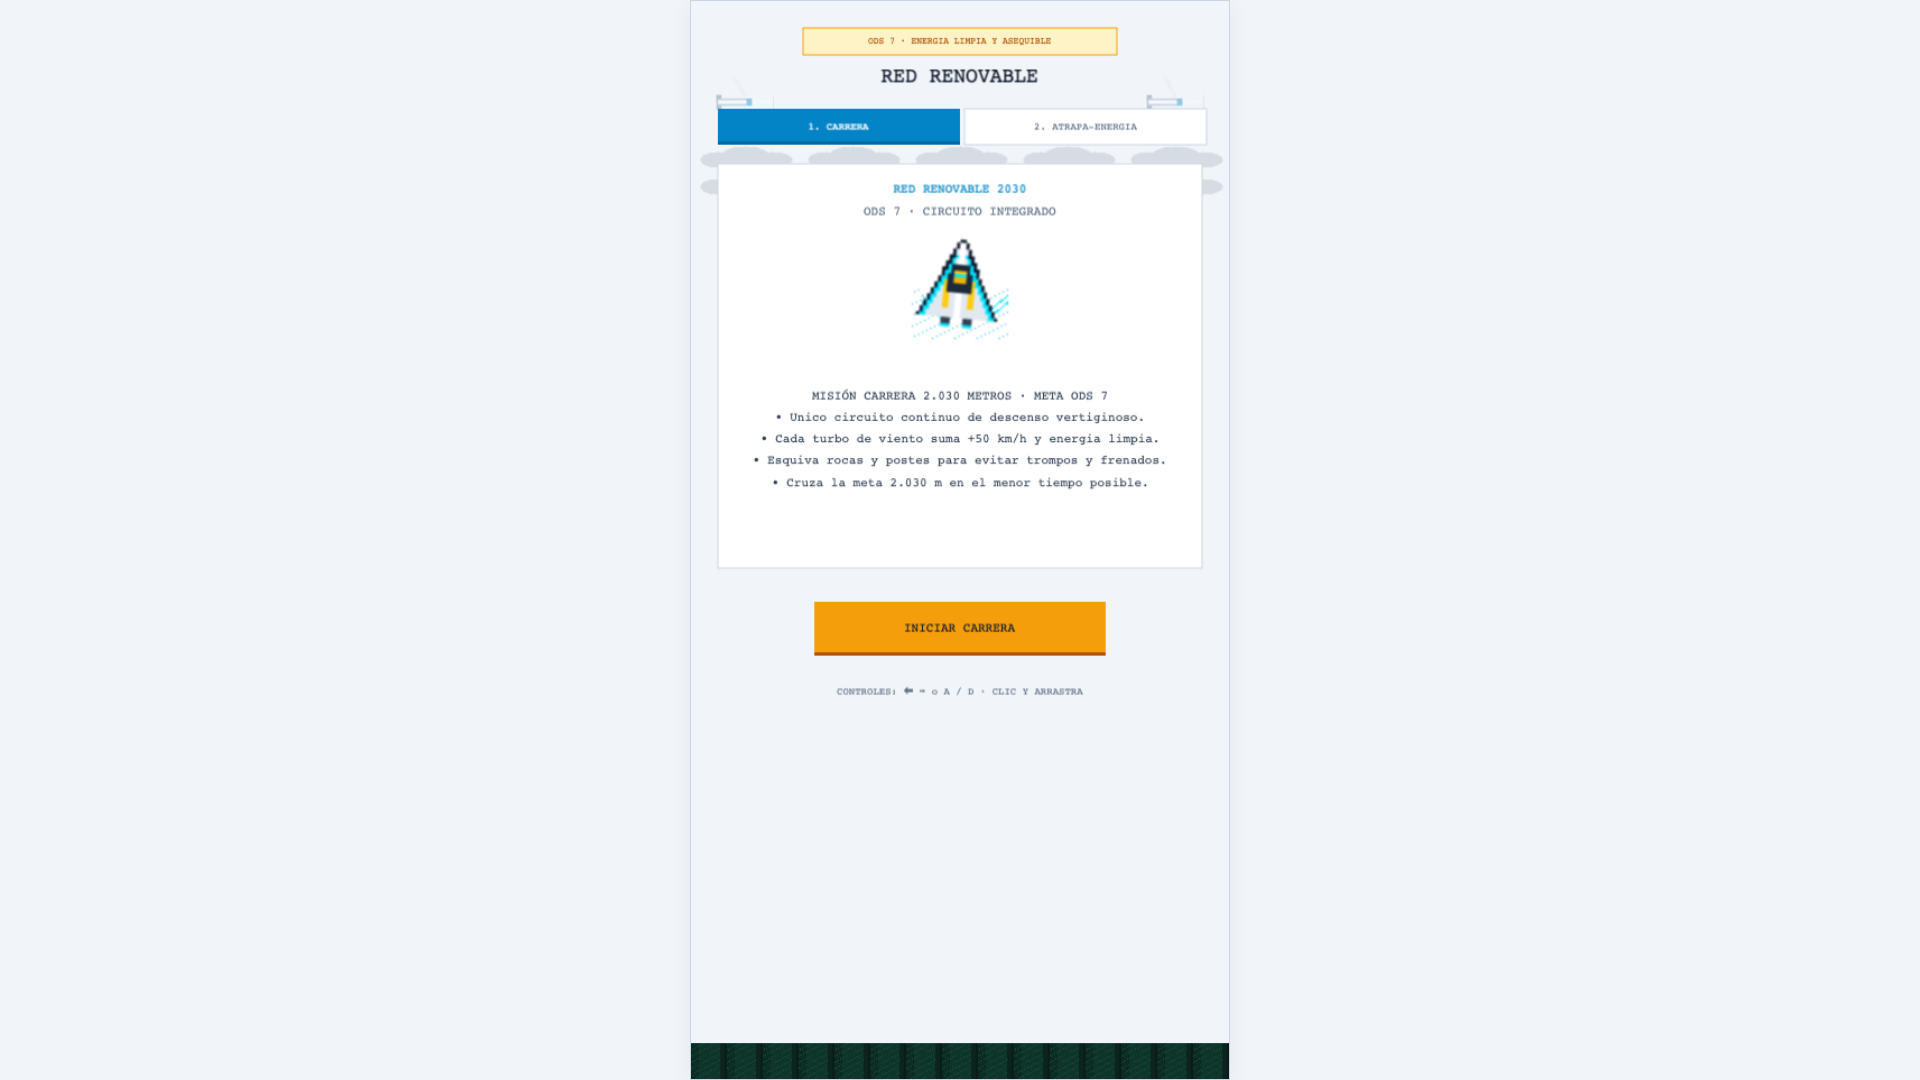
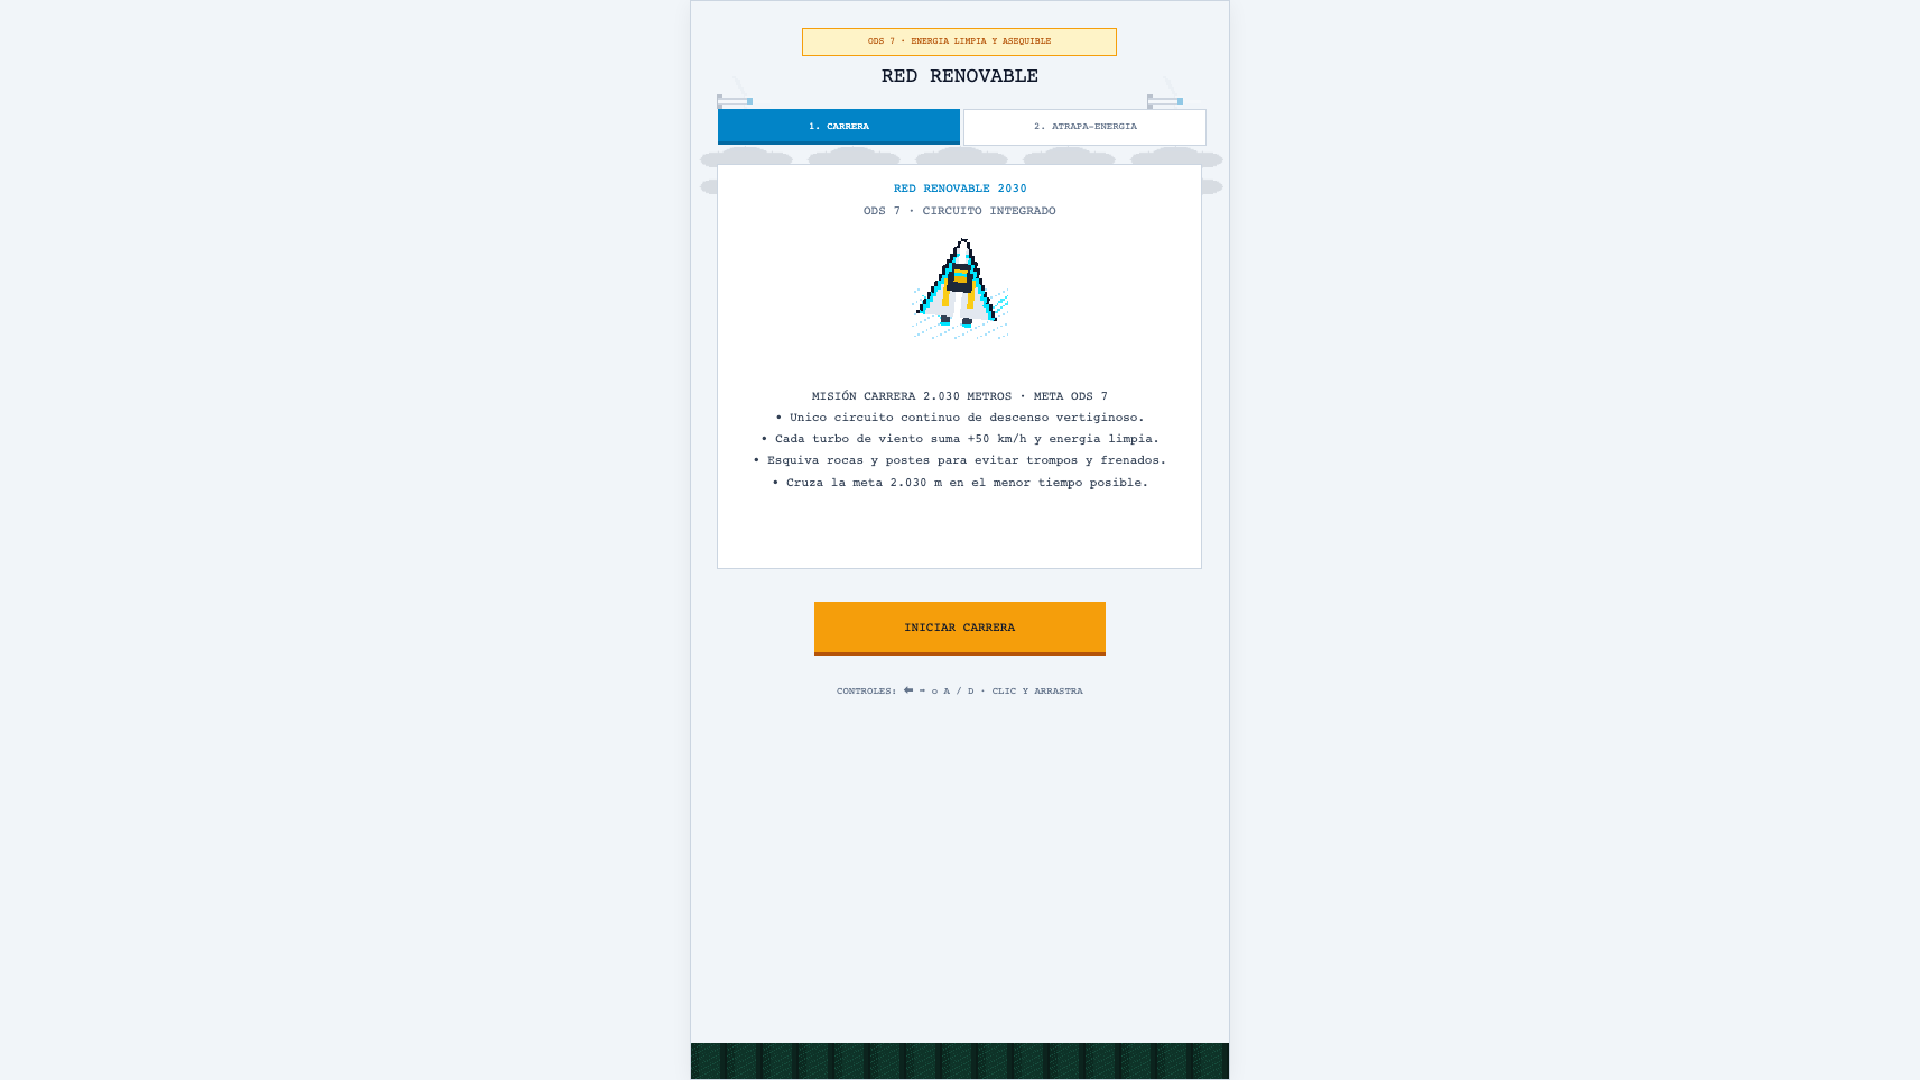
fix(render): force pixelArt, roundPixels, nearest-neighbor scaling and 2x font resolution

diff --git a/src/ui/InitialGuideModal.ts b/src/ui/InitialGuideModal.ts
@@ -70,7 +70,8 @@ export class InitialGuideModal {
         const badgeText = this.scene.add.text(width / 2, cardY + 30, 'ODS 7 · GUIA INICIAL (10s)', {
             fontSize: '8px',
             fontFamily: "'Press Start 2P', monospace",
-            color: '#B45309'
+            color: '#B45309',
+            resolution: 2
         }).setOrigin(0.5);
         this.container.add(badgeText);
 
@@ -84,7 +85,8 @@ export class InitialGuideModal {
                 fontSize: '11px',
                 fontFamily: "'Press Start 2P', monospace",
                 color: isRace ? '#0284C7' : '#16A34A',
-                align: 'center'
+                align: 'center',
+                resolution: 2
             }
         ).setOrigin(0.5, 0);
         this.container.add(titleText);
@@ -97,7 +99,8 @@ export class InitialGuideModal {
                 fontSize: '10px',
                 fontFamily: "'Silkscreen', monospace",
                 color: '#64748B',
-                align: 'center'
+                align: 'center',
+                resolution: 2
             }
         ).setOrigin(0.5, 0);
         this.container.add(subtitleText);
@@ -169,7 +172,8 @@ export class InitialGuideModal {
             {
                 fontSize: '10px',
                 fontFamily: "'Press Start 2P', monospace",
-                color: '#D97706'
+                color: '#D97706',
+                resolution: 2
             }
         ).setOrigin(0.5);
         this.container.add(this.countdownText);
@@ -209,7 +213,8 @@ export class InitialGuideModal {
         const btnText = this.scene.add.text(width / 2, btnY + btnH / 2 - 1, 'EMPEZAR YA ➔', {
             fontSize: '10px',
             fontFamily: "'Press Start 2P', monospace",
-            color: '#0F172A'
+            color: '#0F172A',
+            resolution: 2
         }).setOrigin(0.5);
         this.container.add(btnText);
 
@@ -245,7 +250,8 @@ export class InitialGuideModal {
         const titleText = this.scene.add.text(x + padding, y + 10, title, {
             fontSize: '8px',
             fontFamily: "'Press Start 2P', monospace",
-            color: titleColor
+            color: titleColor,
+            resolution: 2
         });
 
         const bodyText = this.scene.add.text(x + padding, y + 26, lines.join('\n'), {
@@ -253,7 +259,8 @@ export class InitialGuideModal {
             fontFamily: "'Silkscreen', monospace",
             color: '#334155',
             lineSpacing: 5,
-            wordWrap: { width: w - padding * 2, useAdvancedWrap: true }
+            wordWrap: { width: w - padding * 2, useAdvancedWrap: true },
+            resolution: 2
         });
 
         const totalH = Math.max(76, bodyText.height + 38);

diff --git a/src/main.ts b/src/main.ts
@@ -13,11 +13,20 @@ const config: Types.Core.GameConfig = {
     width: 480,
     height: 960,
     backgroundColor: '#F8FAFC',
-    pixelArt: false, // Smooth rendering at higher resolution
-    antialias: true,
+    pixelArt: true,
+    roundPixels: true,
+    antialias: false,
+    antialiasGL: false,
+    render: {
+        pixelArt: true,
+        antialias: false,
+        antialiasGL: false,
+        roundPixels: true
+    },
     scale: {
         mode: Phaser.Scale.FIT,
-        autoCenter: Phaser.Scale.NO_CENTER
+        autoCenter: Phaser.Scale.NO_CENTER,
+        autoRound: true
     },
     physics: {
         default: 'arcade',

diff --git a/src/scenes/PreloaderScene.ts b/src/scenes/PreloaderScene.ts
@@ -99,6 +99,14 @@ export class PreloaderScene extends Scene {
     }
 
     create(): void {
-        this.scene.start('MenuScene');
+        if (typeof document !== 'undefined' && document.fonts) {
+            document.fonts.ready.then(() => {
+                this.scene.start('MenuScene');
+            }).catch(() => {
+                this.scene.start('MenuScene');
+            });
+        } else {
+            this.scene.start('MenuScene');
+        }
     }
 }

diff --git a/style.css b/style.css
@@ -53,4 +53,8 @@ body {
     z-index: 1;
     border: 1px solid #CBD5E1;
     box-shadow: 0 4px 20px rgba(0, 0, 0, 0.06);
+    image-rendering: -moz-crisp-edges;
+    image-rendering: -webkit-crisp-edges;
+    image-rendering: pixelated;
+    image-rendering: crisp-edges;
 }
